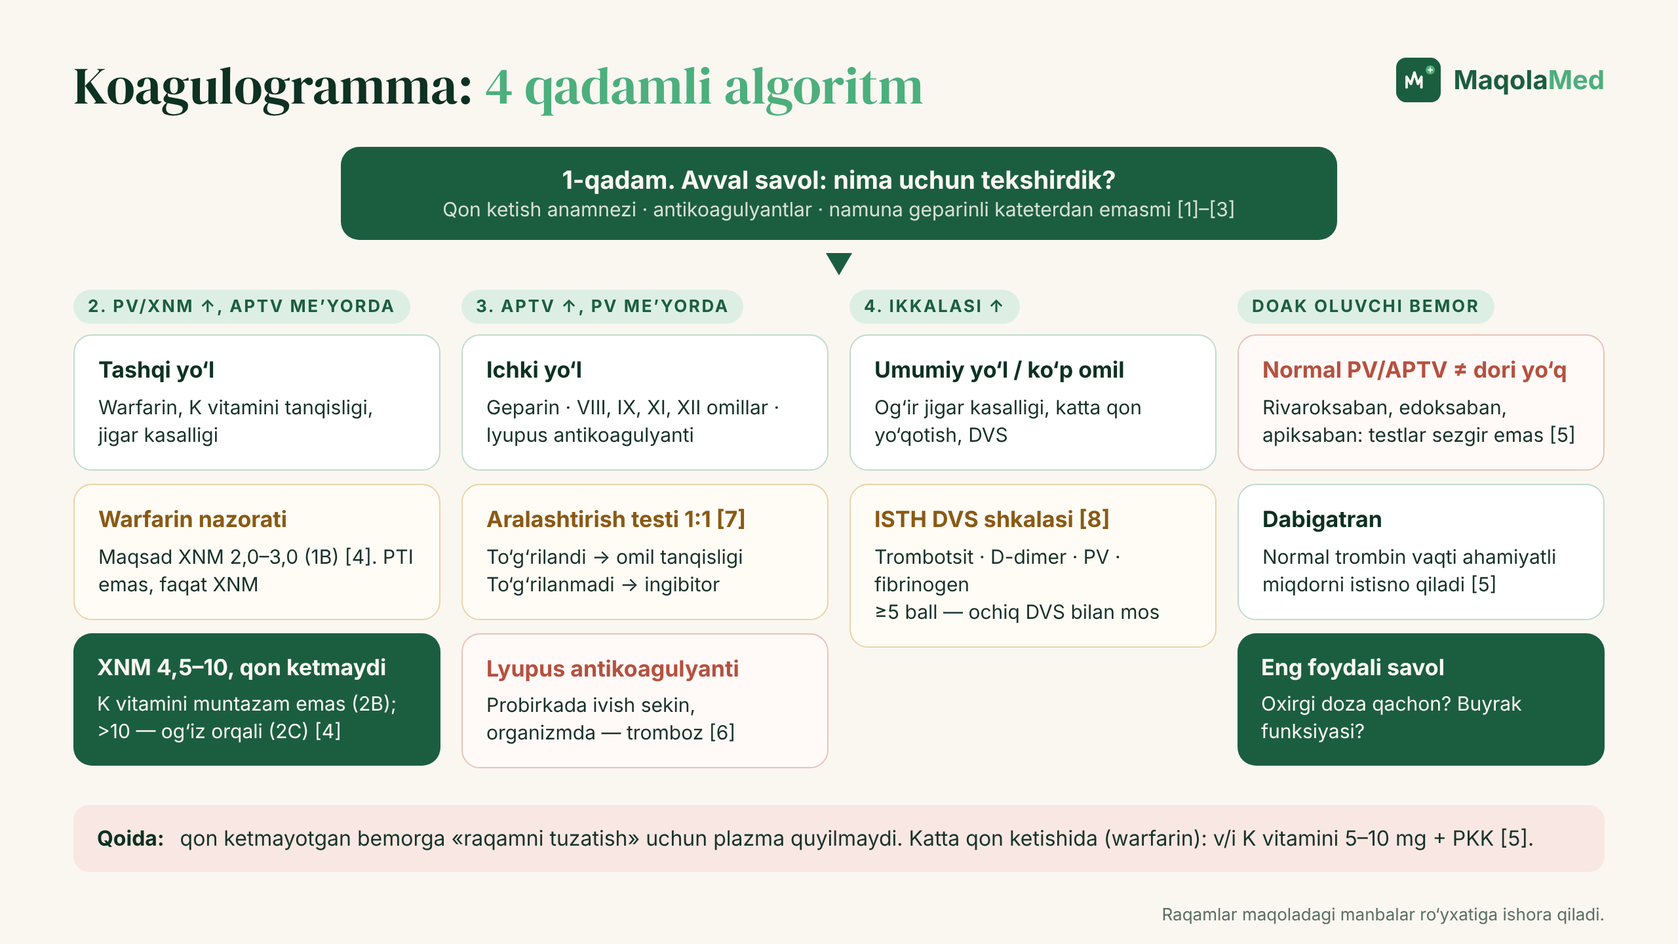
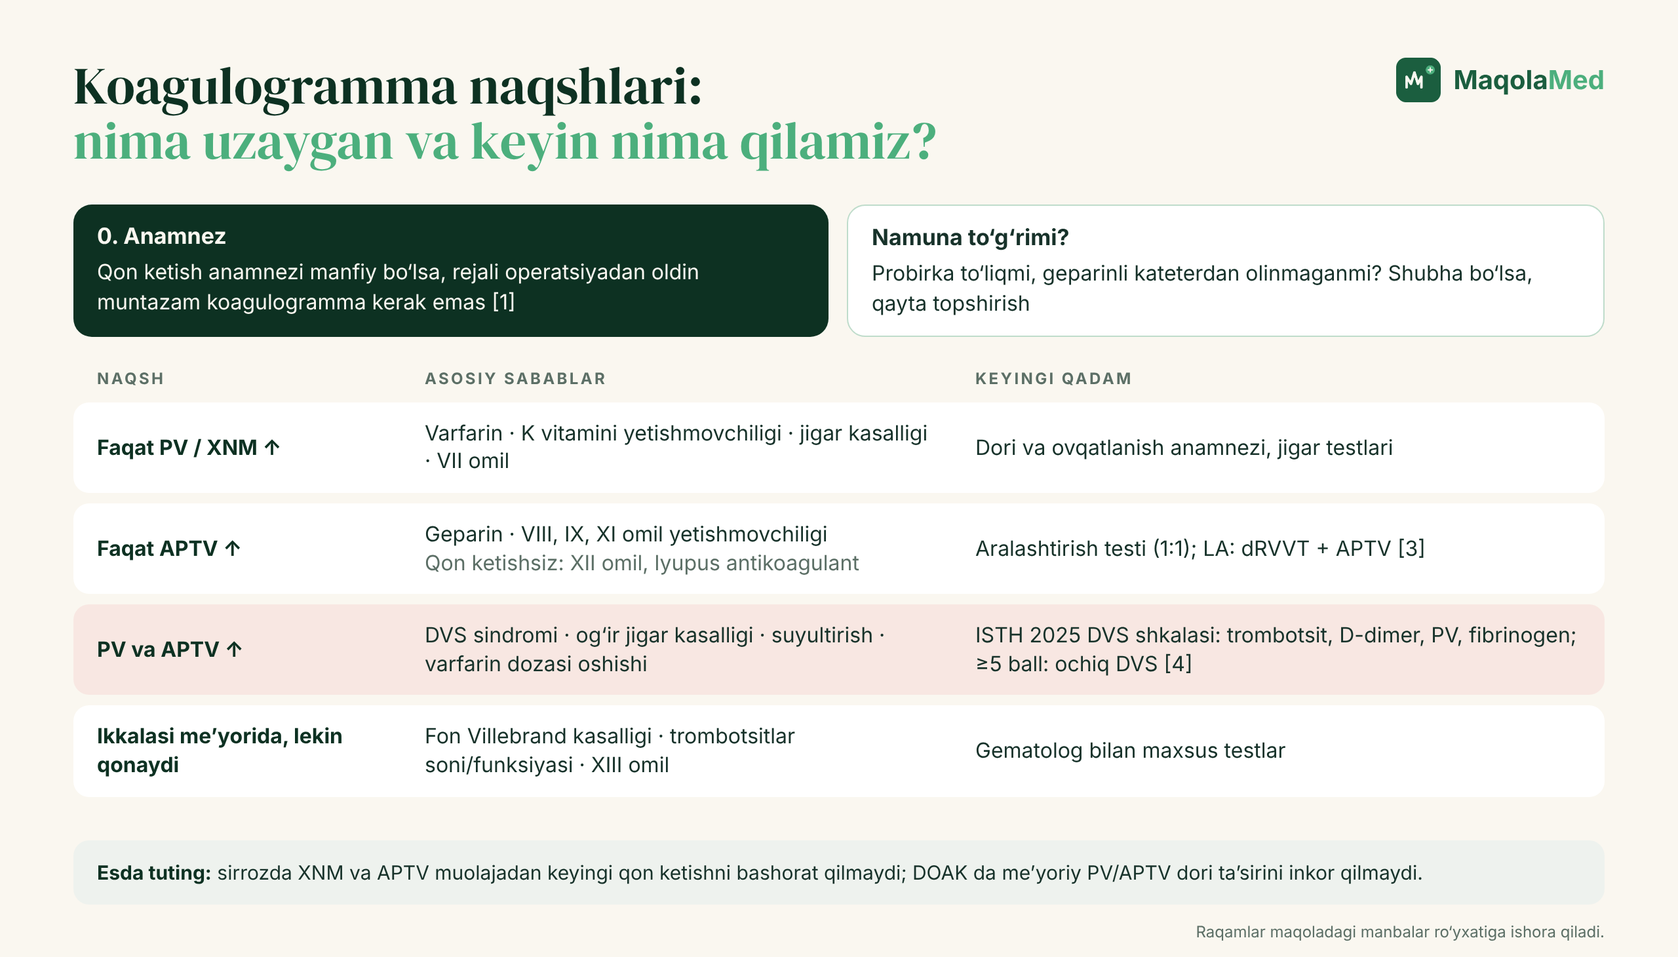
11-dekabr maqolasi qayta yozildi (v2, humanizer): koagulogramma — muqovalar, 2 rasm

diff --git a/_manba/2026-12-11/muqova-instagram-4x5.html b/_manba/2026-12-11/muqova-instagram-4x5.html
@@ -1,0 +1,87 @@
+<!doctype html>
+<html lang="uz">
+<head><base href="file:///home/claude/maqolamed-rasmlar/_shablon/">
+<meta charset="utf-8">
+<style>
+@font-face{font-family:"DM Serif Display";src:url("fonts/dm-serif-display-latin-400-normal.woff2") format("woff2");}
+@font-face{font-family:"DM Serif Display";src:url("fonts/dm-serif-display-latin-ext-400-normal.woff2") format("woff2");unicode-range:U+0100-024F,U+1E00-1EFF;}
+:root{
+  --emerald:#1B5E3F; --deep:#0D3122; --cream:#FAF7F0; --mint:#7FC9A0; --green:#4CAF7D;
+}
+*{margin:0;padding:0;box-sizing:border-box}
+html,body{width:1280px;height:720px;overflow:hidden;background:var(--deep)}
+.cover{position:relative;width:1280px;height:720px;overflow:hidden;font-family:"Inter",sans-serif;color:var(--cream);
+  background:
+    radial-gradient(900px 600px at 78% 40%, rgba(76,175,125,.22), transparent 60%),
+    radial-gradient(700px 500px at 0% 100%, rgba(13,49,34,.9), transparent 70%),
+    linear-gradient(135deg,#123F2C 0%, #1B5E3F 55%, #164D34 100%);}
+.grid{position:absolute;inset:0;background-image:
+    linear-gradient(rgba(250,247,240,.035) 1px,transparent 1px),
+    linear-gradient(90deg,rgba(250,247,240,.035) 1px,transparent 1px);
+  background-size:40px 40px;}
+.ekg{position:absolute;left:0;top:300px;width:1280px;height:200px;opacity:.16}
+.left{position:absolute;left:64px;top:52px;width:690px}
+.brand{display:flex;align-items:center;gap:28px}
+.brand img{height:62px;display:block}
+.tag{display:flex;align-items:center;gap:14px;font-size:13px;letter-spacing:.32em;color:rgba(250,247,240,.72);font-weight:500}
+.tag i{width:4px;height:4px;border-radius:50%;background:var(--mint);display:inline-block}
+.tag .line{width:90px;height:1px;background:rgba(250,247,240,.35)}
+.kicker{margin-top:54px;display:inline-flex;align-items:center;gap:10px;font-size:15px;font-weight:600;letter-spacing:.14em;text-transform:uppercase;color:var(--mint)}
+.kicker span{display:inline-block;width:28px;height:2px;background:var(--mint)}
+h1{margin-top:16px;font-family:"DM Serif Display",serif;font-weight:400;font-size:78px;line-height:.98;letter-spacing:-.01em;color:var(--cream)}
+h1 em{font-style:normal;color:var(--mint)}
+.sub{margin-top:22px;font-size:21px;color:rgba(250,247,240,.82);font-weight:400}
+.points{position:absolute;left:64px;bottom:50px;display:flex;gap:0}
+.pt{width:172px;padding-right:18px;display:flex;flex-direction:column;align-items:flex-start;gap:12px}
+.pt + .pt{padding-left:22px;border-left:1px solid rgba(250,247,240,.18)}
+.ic{width:52px;height:52px;border-radius:50%;border:1.6px solid rgba(250,247,240,.75);display:grid;place-items:center}
+.ic svg{width:26px;height:26px;stroke:var(--cream);fill:none;stroke-width:1.7;stroke-linecap:round;stroke-linejoin:round}
+.pt p{font-size:15px;line-height:1.3;color:rgba(250,247,240,.92);font-weight:500}
+.card{position:absolute;right:56px;top:96px;width:400px;border-radius:22px;padding:28px 30px 26px;
+  background:linear-gradient(160deg,rgba(13,49,34,.82),rgba(13,49,34,.62));
+  border:1px solid rgba(127,201,160,.35);box-shadow:0 30px 60px rgba(0,0,0,.35)}
+.card .ch{display:flex;justify-content:space-between;align-items:center}
+.card .lbl{font-size:12px;letter-spacing:.24em;font-weight:600;color:var(--mint)}
+.card .pill{font-size:12px;font-weight:600;padding:5px 10px;border-radius:999px;background:rgba(127,201,160,.16);color:var(--mint)}
+.card h3{margin-top:14px;font-size:22px;font-weight:600}
+.card h3 small{display:block;margin-top:4px;font-size:14px;font-weight:400;color:rgba(250,247,240,.65)}
+.rows{margin-top:18px;border-top:1px solid rgba(250,247,240,.14)}
+.row{display:flex;justify-content:space-between;padding:9px 0;border-bottom:1px solid rgba(250,247,240,.10);font-size:16px}
+.row span:first-child{color:rgba(250,247,240,.68)}
+.row span:last-child{font-weight:600;font-variant-numeric:tabular-nums}
+.row .ok{color:var(--mint)}
+.quote{margin-top:18px;font-family:"DM Serif Display",serif;font-size:21px;line-height:1.25;color:var(--cream)}
+.ask{margin-top:16px;display:flex;align-items:center;justify-content:space-between;padding:13px 16px;border-radius:12px;background:var(--green);color:#0D3122;font-weight:700;font-size:17px}
+.ask svg{width:22px;height:22px;stroke:#0D3122;fill:none;stroke-width:2.2;stroke-linecap:round;stroke-linejoin:round}
+
+html,body{width:1080px;height:1350px}
+.cover{width:1080px;height:1350px}
+.ekg{top:525px;width:1080px}
+.left{left:72px;top:64px;width:940px}
+.brand img{height:72px}
+h1{font-size:96px;margin-top:18px}
+.kicker{margin-top:56px;font-size:17px}
+.sub{font-size:24px}
+.card{left:72px;right:72px;top:auto;bottom:250px;width:auto;padding:30px 34px}
+.rows{display:grid;grid-template-columns:1fr 1fr;column-gap:40px}
+.quote{font-size:24px}
+.points{left:72px;right:72px;bottom:60px}
+.pt{width:auto;flex:1}
+.pt p{font-size:17px}
+
+
+
+h1{font-size:88px}
+</style>
+</head>
+<body><div class="cover"><div class="grid"></div>
+<svg class="ekg" viewBox="0 0 1280 200" preserveAspectRatio="none"><polyline fill="none" stroke="#7FC9A0" stroke-width="3" stroke-linejoin="round" stroke-linecap="round" points="0,120 640,120 670,120 690,98 710,120 750,120 770,40 795,175 820,120 880,120 905,102 930,120 1280,120"/></svg>
+<div class="left"><div class="brand"><img src="logo_dark_bg.png" alt="MaqolaMed"></div>
+<div class="tag" style="margin-top:22px"><span>ILM</span><i></i><span>AMALIYOT</span><i></i><span>ODAM UCHUN</span><span class="line"></span></div>
+<div class="kicker"><span></span>Tahlil o‘qish · Gematologiya</div>
+<h1>Koagulogramma:<br>PV, XNM va APTV:<br><em>qanday o‘qiymiz?</em></h1>
+<div class="sub">Uzaygan raqamdan oldin anamnezni so‘raymiz.</div></div>
+<div class="points"><div class="pt"><div class="ic"><svg viewBox="0 0 24 24"><path d="M9 3h6"/><path d="M10 3v12.5a2 2 0 0 0 4 0V3"/><path d="M10 10h4"/><path d="M5 21h14"/></svg></div><p>Operatsiyadan oldin kerakmi?</p></div><div class="pt"><div class="ic"><svg viewBox="0 0 24 24"><circle cx="12" cy="12" r="9"/><path d="M9.5 9.5a2.5 2.5 0 1 1 3.5 2.3c-.7.3-1 .8-1 1.5v.7"/><path d="M12 17v.5"/></svg></div><p>Faqat APTV uzaysa nima qilamiz?</p></div><div class="pt"><div class="ic"><svg viewBox="0 0 24 24"><path d="M3 10c0-3 3-5 8-5h7c2 0 3 1.5 3 3 0 4-6 11-11 11-4 0-7-4-7-9z"/></svg></div><p>Sirrozda XNM ishonchlimi?</p></div><div class="pt"><div class="ic"><svg viewBox="0 0 24 24"><rect x="3" y="8.5" width="18" height="7" rx="3.5" transform="rotate(-40 12 12)"/><path d="M9.3 9.3l5.4 5.4"/></svg></div><p>Varfarinda XNM 6 bo‘lsa?</p></div></div>
+<div class="card"><div class="ch"><span class="lbl">4 NAQSH</span><span class="pill">Tahlil</span></div>
+<h3>Qaysi ko‘rsatkich uzaygan?<small>BCSH 2008 · EASL 2022 · ISTH 2025</small></h3><div class="rows"><div class="row"><span>Faqat PV/XNM</span><span class="">varfarin · jigar · vit. K</span></div><div class="row"><span>Faqat APTV</span><span class="">geparin · omillar · LA</span></div><div class="row"><span>Ikkalasi</span><span class="">DVS · jigar · suyultirish</span></div><div class="row"><span>Ikkalasi me’yorida</span><span class="ok">vWB · trombotsit</span></div></div><div class="quote">«Avval plazma quyib keling»</div><div class="ask">Plazma kerakmi?<svg viewBox="0 0 24 24"><path d="M5 12h14"/><path d="M13 6l6 6-6 6"/></svg></div></div>
+</div></body></html>

diff --git a/_manba/2026-12-11/muqova-16x9.html b/_manba/2026-12-11/muqova-16x9.html
@@ -1,0 +1,70 @@
+<!doctype html>
+<html lang="uz">
+<head><base href="file:///home/claude/maqolamed-rasmlar/_shablon/">
+<meta charset="utf-8">
+<style>
+@font-face{font-family:"DM Serif Display";src:url("fonts/dm-serif-display-latin-400-normal.woff2") format("woff2");}
+@font-face{font-family:"DM Serif Display";src:url("fonts/dm-serif-display-latin-ext-400-normal.woff2") format("woff2");unicode-range:U+0100-024F,U+1E00-1EFF;}
+:root{
+  --emerald:#1B5E3F; --deep:#0D3122; --cream:#FAF7F0; --mint:#7FC9A0; --green:#4CAF7D;
+}
+*{margin:0;padding:0;box-sizing:border-box}
+html,body{width:1280px;height:720px;overflow:hidden;background:var(--deep)}
+.cover{position:relative;width:1280px;height:720px;overflow:hidden;font-family:"Inter",sans-serif;color:var(--cream);
+  background:
+    radial-gradient(900px 600px at 78% 40%, rgba(76,175,125,.22), transparent 60%),
+    radial-gradient(700px 500px at 0% 100%, rgba(13,49,34,.9), transparent 70%),
+    linear-gradient(135deg,#123F2C 0%, #1B5E3F 55%, #164D34 100%);}
+.grid{position:absolute;inset:0;background-image:
+    linear-gradient(rgba(250,247,240,.035) 1px,transparent 1px),
+    linear-gradient(90deg,rgba(250,247,240,.035) 1px,transparent 1px);
+  background-size:40px 40px;}
+.ekg{position:absolute;left:0;top:300px;width:1280px;height:200px;opacity:.16}
+.left{position:absolute;left:64px;top:52px;width:690px}
+.brand{display:flex;align-items:center;gap:28px}
+.brand img{height:62px;display:block}
+.tag{display:flex;align-items:center;gap:14px;font-size:13px;letter-spacing:.32em;color:rgba(250,247,240,.72);font-weight:500}
+.tag i{width:4px;height:4px;border-radius:50%;background:var(--mint);display:inline-block}
+.tag .line{width:90px;height:1px;background:rgba(250,247,240,.35)}
+.kicker{margin-top:54px;display:inline-flex;align-items:center;gap:10px;font-size:15px;font-weight:600;letter-spacing:.14em;text-transform:uppercase;color:var(--mint)}
+.kicker span{display:inline-block;width:28px;height:2px;background:var(--mint)}
+h1{margin-top:16px;font-family:"DM Serif Display",serif;font-weight:400;font-size:78px;line-height:.98;letter-spacing:-.01em;color:var(--cream)}
+h1 em{font-style:normal;color:var(--mint)}
+.sub{margin-top:22px;font-size:21px;color:rgba(250,247,240,.82);font-weight:400}
+.points{position:absolute;left:64px;bottom:50px;display:flex;gap:0}
+.pt{width:172px;padding-right:18px;display:flex;flex-direction:column;align-items:flex-start;gap:12px}
+.pt + .pt{padding-left:22px;border-left:1px solid rgba(250,247,240,.18)}
+.ic{width:52px;height:52px;border-radius:50%;border:1.6px solid rgba(250,247,240,.75);display:grid;place-items:center}
+.ic svg{width:26px;height:26px;stroke:var(--cream);fill:none;stroke-width:1.7;stroke-linecap:round;stroke-linejoin:round}
+.pt p{font-size:15px;line-height:1.3;color:rgba(250,247,240,.92);font-weight:500}
+.card{position:absolute;right:56px;top:96px;width:400px;border-radius:22px;padding:28px 30px 26px;
+  background:linear-gradient(160deg,rgba(13,49,34,.82),rgba(13,49,34,.62));
+  border:1px solid rgba(127,201,160,.35);box-shadow:0 30px 60px rgba(0,0,0,.35)}
+.card .ch{display:flex;justify-content:space-between;align-items:center}
+.card .lbl{font-size:12px;letter-spacing:.24em;font-weight:600;color:var(--mint)}
+.card .pill{font-size:12px;font-weight:600;padding:5px 10px;border-radius:999px;background:rgba(127,201,160,.16);color:var(--mint)}
+.card h3{margin-top:14px;font-size:22px;font-weight:600}
+.card h3 small{display:block;margin-top:4px;font-size:14px;font-weight:400;color:rgba(250,247,240,.65)}
+.rows{margin-top:18px;border-top:1px solid rgba(250,247,240,.14)}
+.row{display:flex;justify-content:space-between;padding:9px 0;border-bottom:1px solid rgba(250,247,240,.10);font-size:16px}
+.row span:first-child{color:rgba(250,247,240,.68)}
+.row span:last-child{font-weight:600;font-variant-numeric:tabular-nums}
+.row .ok{color:var(--mint)}
+.quote{margin-top:18px;font-family:"DM Serif Display",serif;font-size:21px;line-height:1.25;color:var(--cream)}
+.ask{margin-top:16px;display:flex;align-items:center;justify-content:space-between;padding:13px 16px;border-radius:12px;background:var(--green);color:#0D3122;font-weight:700;font-size:17px}
+.ask svg{width:22px;height:22px;stroke:#0D3122;fill:none;stroke-width:2.2;stroke-linecap:round;stroke-linejoin:round}
+
+h1{font-size:64px}
+</style>
+</head>
+<body><div class="cover"><div class="grid"></div>
+<svg class="ekg" viewBox="0 0 1280 200" preserveAspectRatio="none"><polyline fill="none" stroke="#7FC9A0" stroke-width="3" stroke-linejoin="round" stroke-linecap="round" points="0,120 640,120 670,120 690,98 710,120 750,120 770,40 795,175 820,120 880,120 905,102 930,120 1280,120"/></svg>
+<div class="left"><div class="brand"><img src="logo_dark_bg.png" alt="MaqolaMed"></div>
+<div class="tag" style="margin-top:22px"><span>ILM</span><i></i><span>AMALIYOT</span><i></i><span>ODAM UCHUN</span><span class="line"></span></div>
+<div class="kicker"><span></span>Tahlil o‘qish · Gematologiya</div>
+<h1>Koagulogramma:<br>PV, XNM va APTV:<br><em>qanday o‘qiymiz?</em></h1>
+<div class="sub">Uzaygan raqamdan oldin anamnezni so‘raymiz.</div></div>
+<div class="points"><div class="pt"><div class="ic"><svg viewBox="0 0 24 24"><path d="M9 3h6"/><path d="M10 3v12.5a2 2 0 0 0 4 0V3"/><path d="M10 10h4"/><path d="M5 21h14"/></svg></div><p>Operatsiyadan oldin kerakmi?</p></div><div class="pt"><div class="ic"><svg viewBox="0 0 24 24"><circle cx="12" cy="12" r="9"/><path d="M9.5 9.5a2.5 2.5 0 1 1 3.5 2.3c-.7.3-1 .8-1 1.5v.7"/><path d="M12 17v.5"/></svg></div><p>Faqat APTV uzaysa nima qilamiz?</p></div><div class="pt"><div class="ic"><svg viewBox="0 0 24 24"><path d="M3 10c0-3 3-5 8-5h7c2 0 3 1.5 3 3 0 4-6 11-11 11-4 0-7-4-7-9z"/></svg></div><p>Sirrozda XNM ishonchlimi?</p></div><div class="pt"><div class="ic"><svg viewBox="0 0 24 24"><rect x="3" y="8.5" width="18" height="7" rx="3.5" transform="rotate(-40 12 12)"/><path d="M9.3 9.3l5.4 5.4"/></svg></div><p>Varfarinda XNM 6 bo‘lsa?</p></div></div>
+<div class="card"><div class="ch"><span class="lbl">4 NAQSH</span><span class="pill">Tahlil</span></div>
+<h3>Qaysi ko‘rsatkich uzaygan?<small>BCSH 2008 · EASL 2022 · ISTH 2025</small></h3><div class="rows"><div class="row"><span>Faqat PV/XNM</span><span class="">varfarin · jigar · vit. K</span></div><div class="row"><span>Faqat APTV</span><span class="">geparin · omillar · LA</span></div><div class="row"><span>Ikkalasi</span><span class="">DVS · jigar · suyultirish</span></div><div class="row"><span>Ikkalasi me’yorida</span><span class="ok">vWB · trombotsit</span></div></div><div class="quote">«Avval plazma quyib keling»</div><div class="ask">Plazma kerakmi?<svg viewBox="0 0 24 24"><path d="M5 12h14"/><path d="M13 6l6 6-6 6"/></svg></div></div>
+</div></body></html>

diff --git a/_manba/2026-12-11/1-rasm.html b/_manba/2026-12-11/1-rasm.html
@@ -1,0 +1,48 @@
+<!doctype html><html lang="uz"><head><meta charset="utf-8"><base href="file:///home/claude/maqolamed-rasmlar/_shablon/">
+<style>
+@font-face{font-family:"DM Serif Display";src:url("fonts/dm-serif-display-latin-400-normal.woff2") format("woff2");}
+@font-face{font-family:"DM Serif Display";src:url("fonts/dm-serif-display-latin-ext-400-normal.woff2") format("woff2");unicode-range:U+0100-024F,U+1E00-1EFF;}
+:root{--emerald:#1B5E3F;--deep:#0D3122;--cream:#FAF7F0;--mint:#7FC9A0;--green:#4CAF7D;--ink:#17322A;--muted:#5C6F66;--amber:#C98A2E;--amberbg:#FBF1E1;--red:#B5513F;--redbg:#F8E7E2;--tint:#E6F3EC}
+*{margin:0;padding:0;box-sizing:border-box}
+html,body{width:1280px;height:var(--H,900px);background:var(--cream);overflow:hidden}
+.fig{position:relative;width:1280px;height:var(--H,900px);padding:44px 56px;font-family:"Inter",sans-serif;color:var(--ink)}
+.top{display:flex;justify-content:space-between;align-items:flex-start;margin-bottom:28px}
+h1{font-family:"DM Serif Display",serif;font-weight:400;font-size:40px;line-height:1.05;color:var(--deep)}
+h1 em{font-style:normal;color:var(--green)}
+.brand{display:flex;align-items:center;gap:10px;font-weight:700;font-size:20px;color:var(--emerald)}
+.brand img{height:34px}.brand b{color:var(--green);font-weight:700}
+table{width:100%;border-collapse:separate;border-spacing:0 8px;font-size:16px;line-height:1.35}
+th{text-align:left;font-size:12px;letter-spacing:.14em;text-transform:uppercase;color:var(--muted);padding:0 18px 2px;font-weight:700}
+td{background:#fff;padding:13px 18px;vertical-align:middle}
+td:first-child{border-radius:12px 0 0 12px;font-weight:700;color:var(--deep)}
+td:last-child{border-radius:0 12px 12px 0}
+td.new{background:var(--tint)} td.same{background:#F1EEE6;color:var(--muted)}
+td.warn{background:var(--redbg)}
+.badge{display:inline-block;font-size:11px;font-weight:700;letter-spacing:.08em;padding:4px 9px;border-radius:999px;margin-right:8px;vertical-align:1px}
+.b-new{background:var(--emerald);color:var(--cream)} .b-same{background:#E2DED3;color:var(--muted)} .b-red{background:var(--red);color:#fff} .b-amb{background:var(--amber);color:#fff}
+.muted{color:var(--muted)}
+.node{border-radius:14px;padding:14px 18px;font-size:16px;line-height:1.38}
+.node b{display:block;font-size:17px;margin-bottom:3px}
+.n-dark{background:var(--emerald);color:var(--cream)} .n-deep{background:var(--deep);color:var(--cream)}
+.n-white{background:#fff;border:1.5px solid #BFDCCB} .n-amb{background:#fff;border:1.5px solid #EBD3A9} .n-red{background:var(--redbg);border:1.5px solid #E8C3BA}
+.tagc{display:inline-block;font-size:12px;font-weight:700;letter-spacing:.12em;text-transform:uppercase;padding:6px 12px;border-radius:999px}
+.t-g{background:#DDEFE5;color:var(--emerald)} .t-a{background:var(--amberbg);color:#8A5A14} .t-r{background:var(--redbg);color:var(--red)}
+.note{position:absolute;left:56px;right:56px;bottom:40px;padding:14px 18px;border-radius:12px;background:#EEF2EE;font-size:15px;line-height:1.4}
+.note b{color:var(--deep)}
+.src{position:absolute;right:56px;bottom:12px;font-size:12px;color:var(--muted)}
+.arrow{stroke:var(--emerald);stroke-width:2.2;fill:none}
+</style></head><body><style>:root{--H:730px}
+.pat td:first-child{width:250px}.pat td:nth-child(2){width:420px}
+.pt-ic{font-size:13px;font-weight:700;letter-spacing:.08em;color:var(--emerald)}
+.step{display:flex;gap:14px;margin-bottom:16px}.step .node{flex:1}
+</style>
+<div class="fig"><div class="top"><h1>Koagulogramma naqshlari:<br><em>nima uzaygan va keyin nima qilamiz?</em></h1><div class="brand"><img src="icon.png" alt=""><span>Maqola<b>Med</b></span></div></div>
+
+<div class="step"><div class="node n-deep"><b>0. Anamnez</b>Qon ketish anamnezi manfiy bo‘lsa, rejali operatsiyadan oldin muntazam koagulogramma kerak emas [1]</div><div class="node n-white"><b>Namuna to‘g‘rimi?</b>Probirka to‘liqmi, geparinli kateterdan olinmaganmi? Shubha bo‘lsa, qayta topshirish</div></div>
+<table class="pat"><tr><th>Naqsh</th><th>Asosiy sabablar</th><th>Keyingi qadam</th></tr>
+<tr><td>Faqat PV / XNM ↑</td><td>Varfarin · K vitamini yetishmovchiligi · jigar kasalligi · VII omil</td><td>Dori va ovqatlanish anamnezi, jigar testlari</td></tr>
+<tr><td>Faqat APTV ↑</td><td>Geparin · VIII, IX, XI omil yetishmovchiligi<br><span class="muted">Qon ketishsiz: XII omil, lyupus antikoagulant</span></td><td>Aralashtirish testi (1:1); LA: dRVVT + APTV [3]</td></tr>
+<tr><td class="warn">PV va APTV ↑</td><td class="warn">DVS sindromi · og‘ir jigar kasalligi · suyultirish · varfarin dozasi oshishi</td><td class="warn">ISTH 2025 DVS shkalasi: trombotsit, D-dimer, PV, fibrinogen; ≥5 ball: ochiq DVS [4]</td></tr>
+<tr><td>Ikkalasi me’yorida, lekin qonaydi</td><td>Fon Villebrand kasalligi · trombotsitlar soni/funksiyasi · XIII omil</td><td>Gematolog bilan maxsus testlar</td></tr></table>
+<div class="note"><b>Esda tuting:</b> sirrozda XNM va APTV muolajadan keyingi qon ketishni bashorat qilmaydi; DOAK da me’yoriy PV/APTV dori ta’sirini inkor qilmaydi.</div>
+<div class="src">Raqamlar maqoladagi manbalar ro‘yxatiga ishora qiladi.</div></div></body></html>

diff --git a/_manba/2026-12-11/2-rasm.html b/_manba/2026-12-11/2-rasm.html
@@ -1,0 +1,45 @@
+<!doctype html><html lang="uz"><head><meta charset="utf-8"><base href="file:///home/claude/maqolamed-rasmlar/_shablon/">
+<style>
+@font-face{font-family:"DM Serif Display";src:url("fonts/dm-serif-display-latin-400-normal.woff2") format("woff2");}
+@font-face{font-family:"DM Serif Display";src:url("fonts/dm-serif-display-latin-ext-400-normal.woff2") format("woff2");unicode-range:U+0100-024F,U+1E00-1EFF;}
+:root{--emerald:#1B5E3F;--deep:#0D3122;--cream:#FAF7F0;--mint:#7FC9A0;--green:#4CAF7D;--ink:#17322A;--muted:#5C6F66;--amber:#C98A2E;--amberbg:#FBF1E1;--red:#B5513F;--redbg:#F8E7E2;--tint:#E6F3EC}
+*{margin:0;padding:0;box-sizing:border-box}
+html,body{width:1280px;height:var(--H,900px);background:var(--cream);overflow:hidden}
+.fig{position:relative;width:1280px;height:var(--H,900px);padding:44px 56px;font-family:"Inter",sans-serif;color:var(--ink)}
+.top{display:flex;justify-content:space-between;align-items:flex-start;margin-bottom:28px}
+h1{font-family:"DM Serif Display",serif;font-weight:400;font-size:40px;line-height:1.05;color:var(--deep)}
+h1 em{font-style:normal;color:var(--green)}
+.brand{display:flex;align-items:center;gap:10px;font-weight:700;font-size:20px;color:var(--emerald)}
+.brand img{height:34px}.brand b{color:var(--green);font-weight:700}
+table{width:100%;border-collapse:separate;border-spacing:0 8px;font-size:16px;line-height:1.35}
+th{text-align:left;font-size:12px;letter-spacing:.14em;text-transform:uppercase;color:var(--muted);padding:0 18px 2px;font-weight:700}
+td{background:#fff;padding:13px 18px;vertical-align:middle}
+td:first-child{border-radius:12px 0 0 12px;font-weight:700;color:var(--deep)}
+td:last-child{border-radius:0 12px 12px 0}
+td.new{background:var(--tint)} td.same{background:#F1EEE6;color:var(--muted)}
+td.warn{background:var(--redbg)}
+.badge{display:inline-block;font-size:11px;font-weight:700;letter-spacing:.08em;padding:4px 9px;border-radius:999px;margin-right:8px;vertical-align:1px}
+.b-new{background:var(--emerald);color:var(--cream)} .b-same{background:#E2DED3;color:var(--muted)} .b-red{background:var(--red);color:#fff} .b-amb{background:var(--amber);color:#fff}
+.muted{color:var(--muted)}
+.node{border-radius:14px;padding:14px 18px;font-size:16px;line-height:1.38}
+.node b{display:block;font-size:17px;margin-bottom:3px}
+.n-dark{background:var(--emerald);color:var(--cream)} .n-deep{background:var(--deep);color:var(--cream)}
+.n-white{background:#fff;border:1.5px solid #BFDCCB} .n-amb{background:#fff;border:1.5px solid #EBD3A9} .n-red{background:var(--redbg);border:1.5px solid #E8C3BA}
+.tagc{display:inline-block;font-size:12px;font-weight:700;letter-spacing:.12em;text-transform:uppercase;padding:6px 12px;border-radius:999px}
+.t-g{background:#DDEFE5;color:var(--emerald)} .t-a{background:var(--amberbg);color:#8A5A14} .t-r{background:var(--redbg);color:var(--red)}
+.note{position:absolute;left:56px;right:56px;bottom:40px;padding:14px 18px;border-radius:12px;background:#EEF2EE;font-size:15px;line-height:1.4}
+.note b{color:var(--deep)}
+.src{position:absolute;right:56px;bottom:12px;font-size:12px;color:var(--muted)}
+.arrow{stroke:var(--emerald);stroke-width:2.2;fill:none}
+</style></head><body><style>:root{--H:640px}
+.grid3{display:grid;grid-template-columns:1fr 1fr 1fr;gap:18px}.big{font-size:30px;font-family:"DM Serif Display",serif;color:var(--deep);margin:6px 0 8px}
+</style>
+<div class="fig"><div class="top"><h1>Varfarin olayotgan bemorda yuqori XNM:<br><em>qon ketish bormi?</em></h1><div class="brand"><img src="icon.png" alt=""><span>Maqola<b>Med</b></span></div></div>
+
+<div class="grid3">
+<div class="node n-white"><span class="tagc t-g">Qon ketish yo‘q</span><div class="big">XNM 4,5–10</div>Varfarinni vaqtincha to‘xtatish, K vitaminisiz (shartli tavsiya, dalil juda past) [7].<br><br>XNM ni qayta tekshirish va ko‘tarilish sababini izlash.</div>
+<div class="node n-amb"><span class="tagc t-a">Katta bo‘lmagan qon ketish</span><div class="big">K vitamini 2–5 mg</div>og‘iz orqali yoki v/i ni ko‘rib chiqish [8].<br><br>V/i: XNM 4–6 soatda pasayadi; og‘iz orqali: 18–24 soatda [8].</div>
+<div class="node n-red"><span class="tagc t-r">Katta / hayotga xavfli</span><div class="big">4F-PKK + K vit. 5–10 mg v/i</div>Plazma o‘rniga 4F-PKK [7].<br><br>XNM 2 dan 4 gacha: 25 XB/kg<br>XNM 4–6: 35 XB/kg<br>XNM 6 dan yuqori: 50 XB/kg (≤5 000 XB) [8]</div>
+</div>
+<div class="note" style="bottom:60px"><b>Mahalliy eslatma:</b> tavsiyanomalardagi dozalar K₁ vitamini (fitomenadion) uchun; menadion (vikasol) uning o‘rnini bosmaydi.</div>
+<div class="src">Raqamlar maqoladagi manbalar ro‘yxatiga ishora qiladi.</div></div></body></html>
